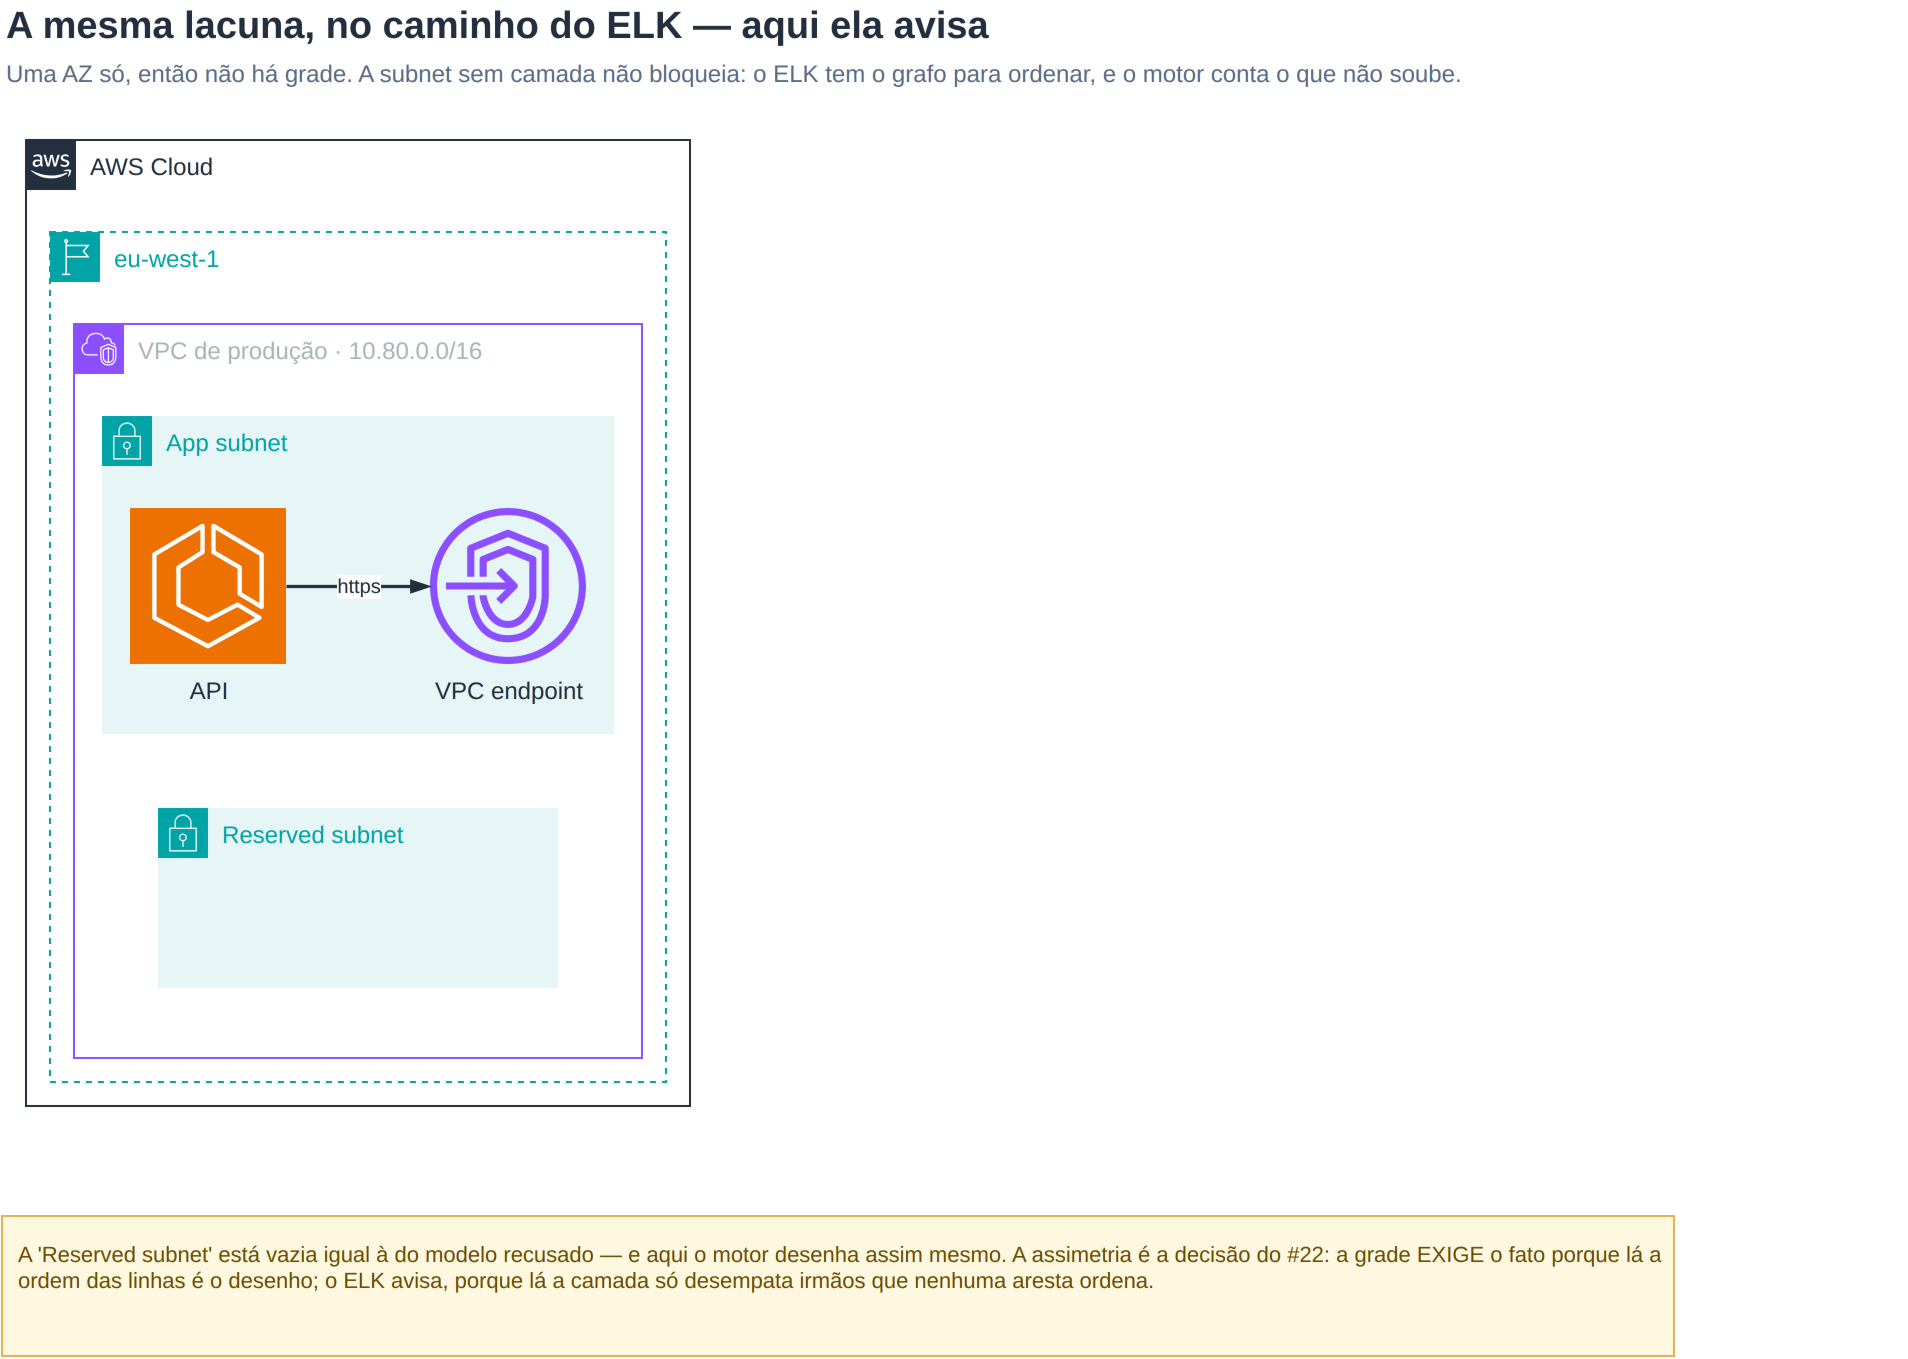
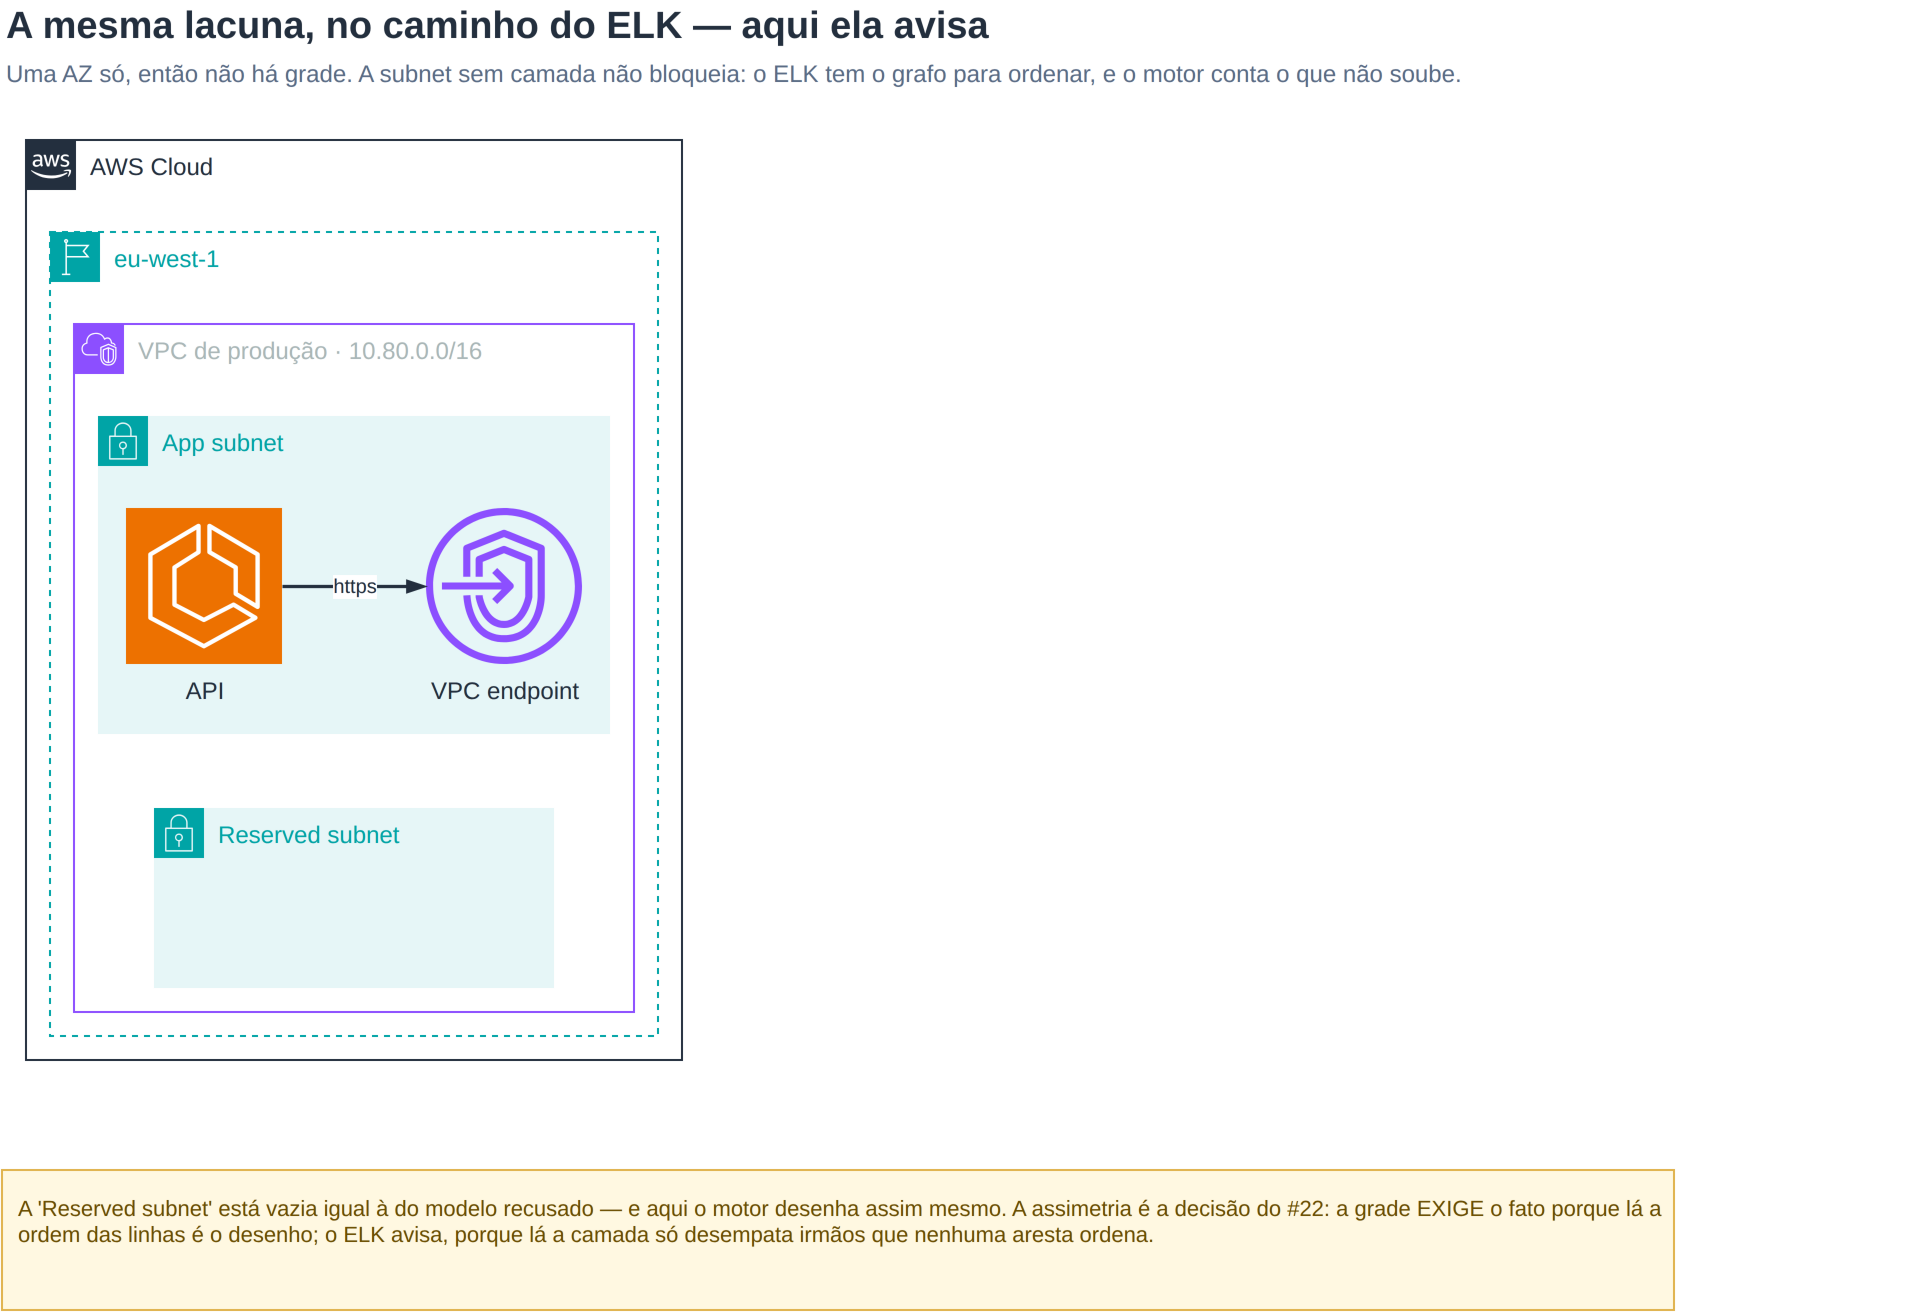
Correções da revisão do #22: dois overclaims e o mesmo bug em outros três lugares
A revisão de padrões e a de spec acharam coisa de verdade. O que mudou:

MESMO BUG, OUTROS TRÊS LUGARES. O commit anterior corrigiu "container é quem o
esquema diz, não quem tem filho" em dois `paraElk` — e deixou o mesmo teste por
contagem de filhos em `temFolha` (duas vezes) e em `folgaConta`. Com uma subnet
vazia dentro, o pai reservava faixa de rótulo para uma folha que não existe. Um
comentário novo afirmando a regra, três linhas ao lado violando: pior que não
ter corrigido. Único desenho afetado: `elk-sem-camada`, o único modelo do repo
com container vazio.

UM PORTÃO QUE NÃO PODIA FICAR VERMELHO. `check-saltos.cjs` saía 0 sempre, mesmo
imprimindo "reabrir a decisão" — a suite ficaria verde em cima do argumento que
acabou de cair.

A CHAVE DE PAPEL ESTAVA EM QUATRO LUGARES, e o comentário no `camadas.cjs`
dizia que estava em um. `dispor`, `gatilhoAz` e o próprio `papeisDeSubnet`
(que refatiava a chave de volta) agora usam `chaveDePapel`. O comparador da
grade lia exposição e rótulo por posição num `split('|')`, o que quebra em
silêncio no dia em que um rótulo tiver `|` dentro; passou a ler campos.
`ORDEM_ACESSO` estava em três tabelas, uma delas mapeando o ausente para 2 e as
outras para 9 — virou `ordemDeAcesso`, uma só.

DOIS OVERCLAIMS MEUS NO README, os dois apontados pela revisão de spec:

- Eu citava o `check-fronteira` como quem prova que `camada` não é posição. Não
  prova: a lista `GEOMETRIA` dele não tem `ordem` — e não pode ter, porque
[…]

diff --git a/skills/panlabs-aws-diagrams/prototypes/q22/README.md b/skills/panlabs-aws-diagrams/prototypes/q22/README.md
@@ -57,6 +57,7 @@ node ../q11/motor/gerar.cjs modelo/web-dados.json --explicar   # a trilha da cam
 | `recusa/subnet-vazia.json` | O modelo que **não gera**. A suite exige que ele falhe, e confere a mensagem. |
 | `saida/antes-ordem-alfabetica.png` | O **antes**, e não é reconstituição — ver abaixo. |
 | `tools/check-camada.cjs` | A regra isolada do pixel: tabela do ticket, leitura, mistura, escape, lacuna, controle. |
+| `tools/check-no-arquivo.cjs` | A mesma decisão lida do `.drawio` emitido, pelo Y das faixas — o produto, não a intenção. |
 | `tools/check-saltos.cjs` | A candidata "distância da borda", medida no corpus inteiro dos três protótipos. |
 | `tools/gerar-antes.sh` | Materializa o motor de `a83b48a` a partir do git e roda contra o modelo de hoje. |
 | `tools/check-standalone.cjs` | A regra do protótipo substituído (`9b27d6f`), carregada do git e medida contra a que ficou. |
@@ -169,10 +170,35 @@ silêncio: `subnet "app-a": declarada como camada "dados", mas o que ela guarda 
 [#16](https://github.com/ThiagoPanini/panlabs-skills/issues/16) fixou para
 conflito com premissa corporativa — obedece e sinaliza.
 
-**Isto não fere a fronteira do #11.** `camada` nomeia um andar de rede, não uma
-posição: os valores são `borda | aplicacao | dados`, não `1 | 2 | 3` nem
-`topo | meio | fundo`. O `check-fronteira` continua verde, e continua sendo ele
-quem responde — não a minha palavra.
+**Isto não fere a fronteira do #11**, e vale ser exato sobre o que prova o quê.
+
+O `check-fronteira` continua verde com `camada` no esquema, rodando agora também
+contra os modelos deste protótipo. Mas ele prova **menos** do que seria cômodo
+dizer: a lista `GEOMETRIA` dele não tem `ordem` nem `prioridade` — e não pode
+ter, porque `ordem` já é campo legítimo da **aresta** (o número do passo do
+gênero T4). Ou seja, ele ficaria igualmente verde com a quarta candidata do
+ticket. **Ele não arbitra esta distinção.**
+
+Quem arbitra é o formato do campo, e isso é argumento, não máquina: os valores
+são `borda | aplicacao | dados` — nomes de andar, sem ordinal. Não existe
+`camada: 2`, e o enum do esquema é o que impede. Um `ordem: 2` seria o agente
+escolhendo posição; `camada: "dados"` é o agente afirmando um fato de rede, e
+quem transforma o fato em posição continua sendo o motor.
+
+### E a quarta candidata do ticket, respondida
+
+O ticket pergunta: *"Vale ordem explícita como escape? Um `ordem` na subnet
+seria o agente escolhendo posição — perto demais da fronteira do #11 para entrar
+sem discussão."*
+
+**Não vale, e a discussão é curta.** `camada` faz o mesmo trabalho de escape sem
+o custo: cobre a subnet vazia e a que o conteúdo descreveria errado, que são os
+dois casos que motivavam o `ordem`. A diferença é o que sobra escrito no modelo.
+`camada: "dados"` continua verdadeiro se amanhã a VPC ganhar um andar de borda —
+o motor recalcula a pilha. `ordem: 2` vira mentira silenciosa no mesmo dia, e
+pior: não há como saber que virou, porque `2` não afirma nada que se possa
+conferir contra o resto do modelo. Um escape semântico é auditável; um escape
+posicional é um número que ninguém pode contestar.
 
 ---
 
@@ -274,6 +300,10 @@ do q11 e do q12 — escritos antes das duas, por outros tickets:
 | sem camada pela regra de `9b27d6f` | **3** |
 | sem camada pela regra que ficou | **0** |
 
+(As 23 são as subnets dos modelos de rede do q11 e do q12. "Sem camada" é a
+regra não saber nomear a subnet — o que cada motor faz depois disso é o assunto
+do parágrafo abaixo da tabela seguinte.)
+
 As três:
 
 | modelo | subnet | lá | aqui |
@@ -288,9 +318,28 @@ cai pela tabela curta — `Network Firewall` é `security_identity_compliance`, 
 sem essa linha a subnet **mais de borda de todo o corpus** é a que a regra não
 sabe nomear.
 
-E "sem camada" não é neutro: a subnet indefinida vai para o **fim** do grupo de
-exposição dela. Isso é uma posição, e uma posição que ninguém escolheu — é o
-mesmo defeito do alfabeto, com outro nome.
+E "sem camada" não é neutro: a subnet que a regra não sabe nomear vai para o
+**fim** do grupo de exposição dela. Isso é uma posição, e uma posição que
+ninguém escolheu.
+
+**Aqui é preciso ser honesto, porque este motor faz a mesma coisa** — só que num
+caminho, não nos dois. `SEM_CAMADA = 9` existe em `camadas.cjs`, e no caminho do
+ELK ele é exatamente isso: a `Reserved subnet` de `elk-sem-camada` é
+estacionada no fim, com aviso. A diferença não está em nunca estacionar; está em
+**onde a ordem é o desenho**:
+
+| | subnet que a regra não nomeia |
+|---|---|
+| grade — a ordem das linhas É o desenho | **recusa**, com a lista |
+| ELK — a camada só desempata o que a aresta não ordena | estaciona no fim, **com aviso** |
+| regra de `9b27d6f` (emissor único) | estaciona no fim, com aviso |
+
+Então o argumento não é "eu nunca estaciono". É outro, e mais estreito: **as três
+subnets da tabela acima são casos em que a regra anterior estacionava e esta
+nomeia** — `lambda + endpoints + rds` tem uma resposta certa, e a Inspection
+subnet também. Onde as duas regras ficam sem resposta, as duas estacionam
+igual; o ganho está em ficar sem resposta muito menos vezes, e em recusar em vez
+de estacionar no único caminho onde a posição não tem nada que a corrija.
 
 A régua trava o achado: ela **falha** se um dia a regra que ficou deixar de
 nomear mais que a anterior.
